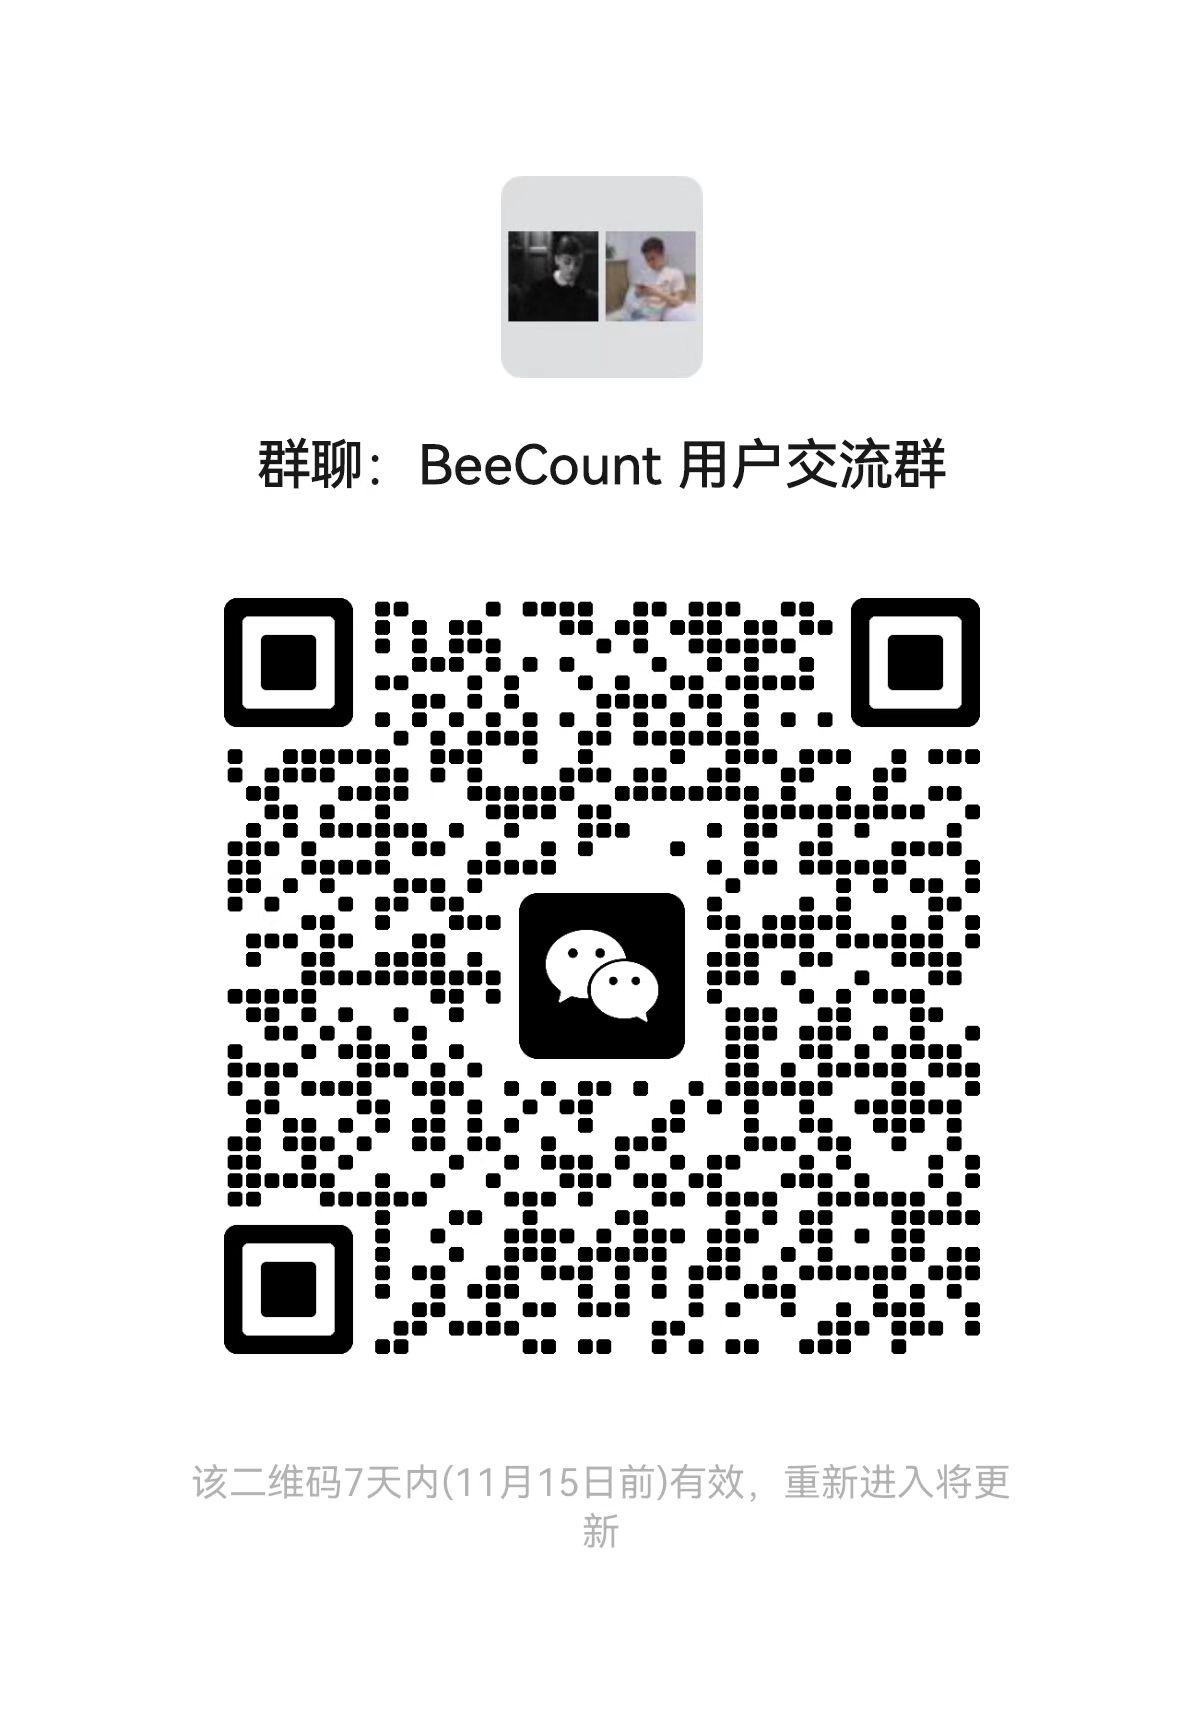
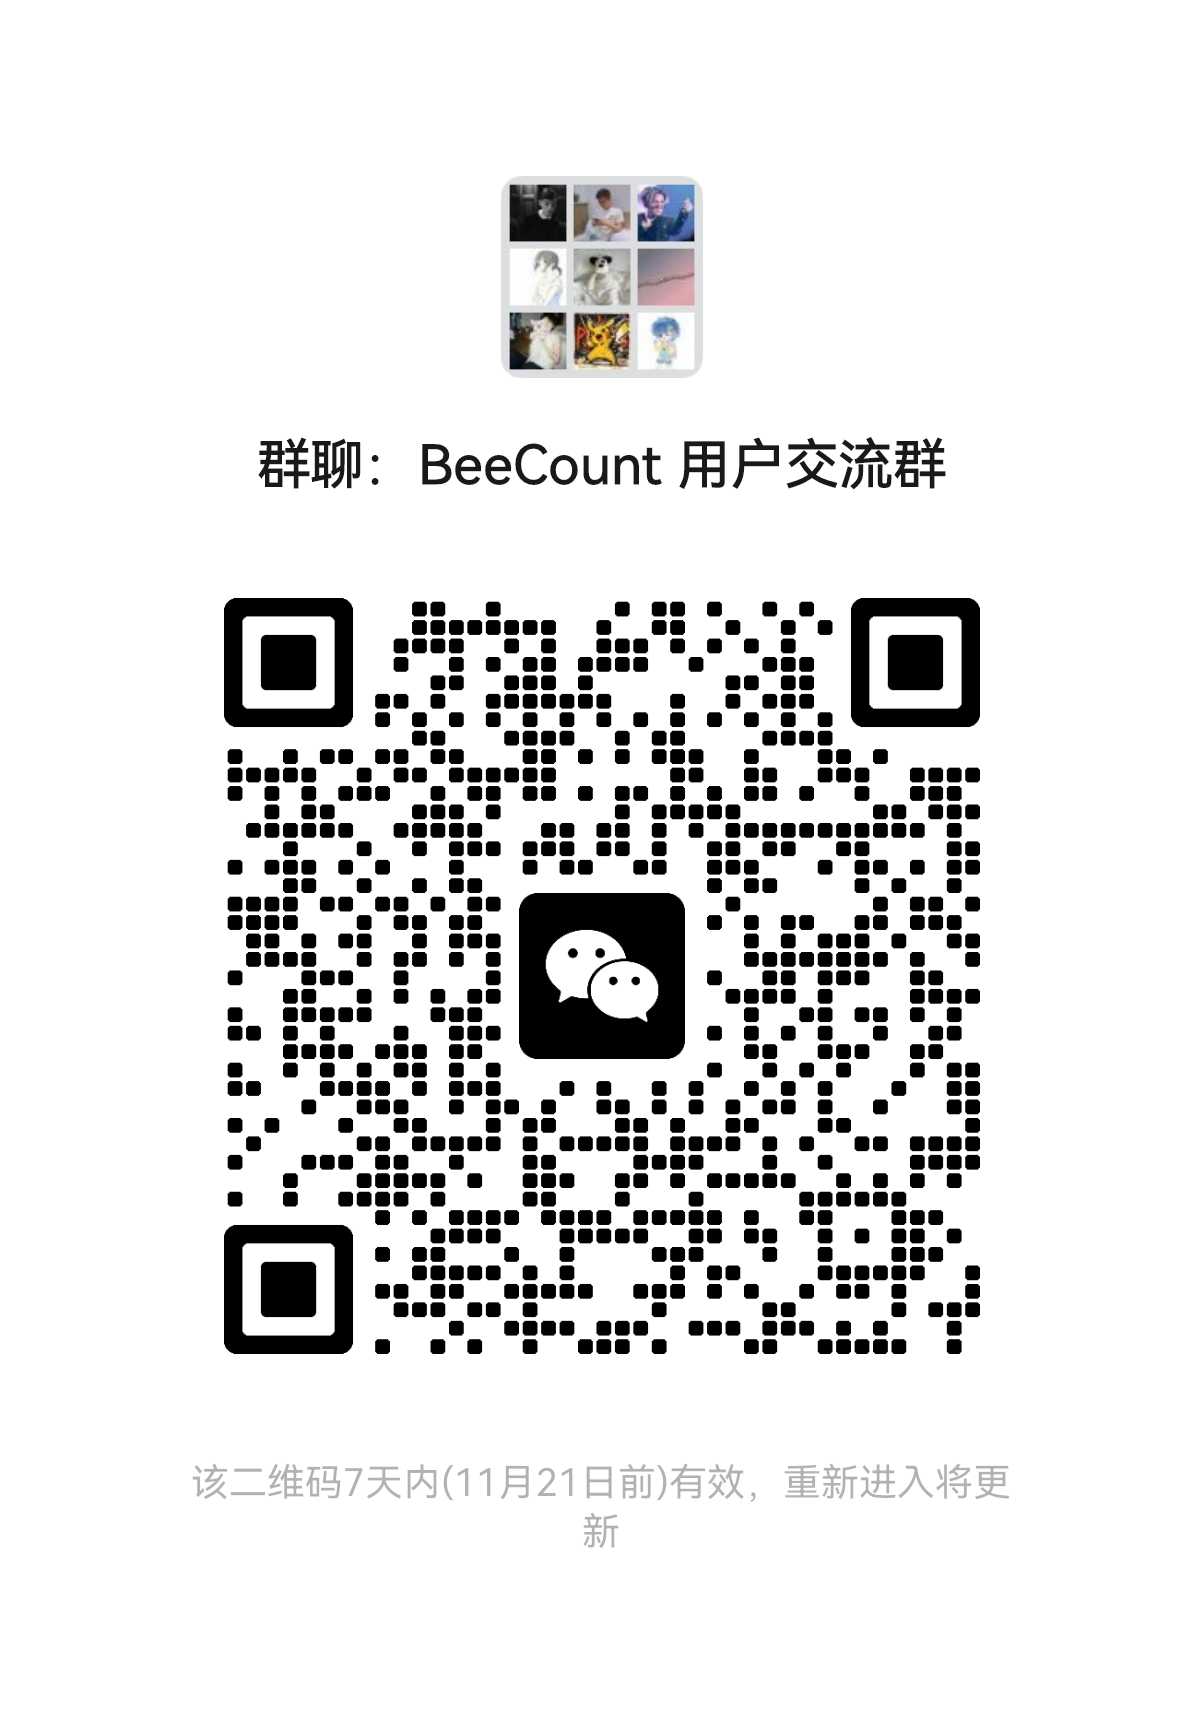
docs: 更新微信群二维码

Changed region(s): [[0.1845, 0.343, 0.8304, 0.7794], [0.3998, 0.0935, 0.5844, 0.2182], [0.4306, 0.8418, 0.4921, 0.873]]

diff --git a/README.md b/README.md
@@ -27,7 +27,7 @@
 <br/>
 <br/>
 
-[📖 使用文档](#-使用说明) | [💝 捐赠支持](#-捐赠) | [💬 Telegram 群组](https://t.me/beecount) | [🌐 English](README_EN.md)
+[📖 使用文档](#-使用说明) | [💝 捐赠支持](#-捐赠) | [🌐 English](README_EN.md)
 
 </div>
 
@@ -61,6 +61,7 @@
 
 > ## 🎨 招募设计师
 >
+>
 > **我们正在寻找有才华的 UI/UX 设计师加入蜜蜂记账项目！**
 >
 > 📐 **参与内容：**
@@ -77,7 +78,6 @@
 >
 > 💌 **联系方式：**
 > - GitHub Issues: [提交设计建议](https://github.com/TNT-Likely/BeeCount/issues)
-> - Telegram 群组: [加入讨论](https://t.me/beecount)
 > - 微信群：扫描上方二维码
 
 ---
@@ -217,21 +217,6 @@
   - CSV 导入自动识别多语言分类
 
 > 💡 需要添加新语言？欢迎在 [Issues](https://github.com/TNT-Likely/BeeCount/issues) 中提出！
-
-## 🔨 开发者构建
-
-```bash
-# 克隆项目
-git clone https://github.com/TNT-Likely/BeeCount.git
-cd BeeCount
-
-# 安装依赖
-flutter pub get
-dart run build_runner build -d
-
-# 运行应用
-flutter run --flavor dev -d android
-```
 
 ## 📖 使用说明
 
@@ -555,7 +540,6 @@ A:
 
 如需商业使用，请通过以下方式联系：
 - 📧 [GitHub Issues](https://github.com/TNT-Likely/BeeCount/issues)
-- 💬 [Telegram 群组](https://t.me/beecount)
 
 详细许可条款请查看 [LICENSE](LICENSE) 文件。
 

diff --git a/README_EN.md b/README_EN.md
@@ -27,7 +27,7 @@
 <br/>
 <br/>
 
-[📖 Documentation](#-user-guide) | [💝 Donate](#-donate) | [💬 Telegram Group](https://t.me/beecount) | [🇨🇳 中文](README.md)
+[📖 Documentation](#-user-guide) | [💝 Donate](#-donate) | [🇨🇳 中文](README.md)
 
 </div>
 
@@ -67,7 +67,6 @@
 >
 > 💌 **Contact:**
 > - GitHub Issues: [Submit design proposals](https://github.com/TNT-Likely/BeeCount/issues)
-> - Telegram Group: [Join discussion](https://t.me/beecount)
 
 ---
 
@@ -206,21 +205,6 @@ A lightweight, open-source, privacy-focused **personal finance management** and 
   - CSV import auto-recognizes multi-language categories
 
 > 💡 Want to add a new language? Welcome to create an [Issue](https://github.com/TNT-Likely/BeeCount/issues)!
-
-## 🔨 Developer Build
-
-```bash
-# Clone the project
-git clone https://github.com/TNT-Likely/BeeCount.git
-cd BeeCount
-
-# Install dependencies
-flutter pub get
-dart run build_runner build -d
-
-# Run the app
-flutter run --flavor dev -d android
-```
 
 ## 📖 User Guide
 
@@ -554,7 +538,6 @@ Commercial license is required for:
 
 For commercial use, please contact us via:
 - 📧 [GitHub Issues](https://github.com/TNT-Likely/BeeCount/issues)
-- 💬 [Telegram Group](https://t.me/beecount)
 
 For detailed license terms, please see the [LICENSE](LICENSE) file.
 
